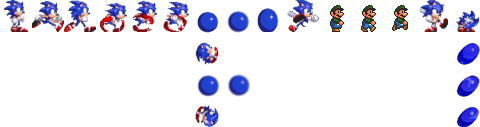
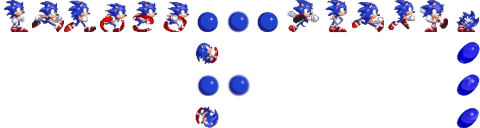
check desc.
fixed sonic implementation making other characters slow

Spindash kills enemies

Spindash Particle effects

Particles allow you to change YPic on spawning them

Added Sonic carrying item sprite, fixed up some sprite sheet stuff

diff --git a/code/character.js b/code/character.js
@@ -344,41 +344,52 @@ Mario.Character.prototype.Move = function () {
         }
         return;
     }
-
-    if (this.character_select == "sonic" && this.Ducking && this.OnGround) {
-        if (Enjine.KeyboardInput.IsKeyDown(Enjine.Keys.A) && this.CanShoot) {
-            this.Spindash = true;
-            this.SpindashCharge += 2;
-            this.SpindashStop = 7;
-            this.Xa = 0;
-        }
-        else if (this.character_select == "sonic") {
-            this.SpindashStop -= 1;
-            if (this.SpindashStop == 0) {
-                this.Xa = this.SpindashCharge * 0.5 * this.Facing;
+    if (this.character_select == "sonic") {
+        if (this.Ducking && this.OnGround) {
+            if (Enjine.KeyboardInput.IsKeyDown(Enjine.Keys.A) && this.CanShoot) {
+                this.Spindash = true;
+                if (this.SpindashCharge < 80) {
+                    this.SpindashCharge += 5;
+                }
+                this.SpindashStop = 7;
+                this.Xa = 0;
+                this.World.AddSprite(new Mario.Sparkle(this.World, (this.X + Math.random() * 8 - 14) | 0, (this.Y + Math.random() * 4) | 0, Math.random() * 2 - 1, Math.random() * -1, 0, 1, 5, 0));
+                this.World.AddSprite(new Mario.Sparkle(this.World, (this.X + Math.random() * 8 - 12) | 0, (this.Y + Math.random() * 4) | 0, Math.random() * 2 - 1, Math.random() * -1, 0, 1, 5, 0));
+            }
+            else {
+                this.SpindashStop -= 1;
+                if (this.SpindashStop == 0) {
+                    this.Xa = this.SpindashCharge * 0.5 * this.Facing;
+                }
+            }
+            if (this.SpindashCharge == 80) {
+                this.World.AddSprite(new Mario.Sparkle(this.World, ((this.X + Math.random() * 25 - 20) | 0) + this.Facing * 8, ((this.Y + Math.random() * 6) | 0) - 12, Math.random() * 2 - 1, Math.random(), 1, 1, 5, 1));
+            }
+            if (this.SpindashChargeLoop < 3) {
+                this.SpindashChargeLoop += 1;
+            }
+            else {
+                this.SpindashChargeLoop = 1;
             }
         }
-        if (this.SpindashChargeLoop < 3) {
-            this.SpindashChargeLoop += 1;
+        else if (!this.Ducking && this.XPic == 0) {
+            this.SpindashCharge = 0;
+            this.SpindashChargeLoop = 0;
         }
-        else {
-            this.SpindashChargeLoop = 1;
+        if (this.Spindash && this.Xa != 0) {
+            this.SpindashCharge *= this.GroundTraction;
+            if (this.SpindashChargeLoop < 3) {
+                this.SpindashChargeLoop += 1;
+            }
+            else {
+                this.SpindashChargeLoop = 1;
+            }
         }
-    }
-    if (this.character_select == "sonic" && this.Spindash && this.Xa != 0) {
-        this.Xa *= 1.05;
-        this.SpindashCharge *= this.GroundTraction;
-        if (this.SpindashChargeLoop < 3) {
-            this.SpindashChargeLoop += 1;
+        if (this.SpindashCharge < 2 || !this.OnGround && this.Xa == 0 || this.collisiontype == "left" || this.collisiontype == "right") {
+            this.Spindash = false;
+            this.SpindashChargeLoop = 0;
+            this.SpindashCharge = 0;
         }
-        else {
-            this.SpindashChargeLoop = 1;
-        }
-    }
-    if (this.SpindashCharge < 2 || !this.OnGround) {
-        this.Spindash = false;
-        this.SpindashChargeLoop = 0;
-        this.SpindashCharge = 0;
     }
 
     //fox stuff
@@ -453,7 +464,7 @@ Mario.Character.prototype.Move = function () {
             this.Xa = 0;
             this.Ya = 0;
             this.WasShielding = true;
-            this.World.AddSprite(new Mario.Sparkle(this.World, ((this.X + Math.random() * 25 - 20) | 0) + this.Facing * 8, ((this.Y + Math.random() * 6) | 0) - 8, Math.random() * 2 - 1, Math.random(), 0, 1, 5));
+            this.World.AddSprite(new Mario.Sparkle(this.World, ((this.X + Math.random() * 25 - 20) | 0) + this.Facing * 8, ((this.Y + Math.random() * 6) | 0) - 8, Math.random() * 2 - 1, Math.random(), 0, 1, 5, 1));
         }
     }
 
@@ -620,7 +631,12 @@ Mario.Character.prototype.Move = function () {
         }
     }
     if (this.Xa != 0 && !Enjine.KeyboardInput.IsKeyDown(Enjine.Keys.Right) && !Enjine.KeyboardInput.IsKeyDown(Enjine.Keys.Left) && this.OnGround && this.character_select == "fox") {
-        this.Xa *= this.GroundTraction;
+        if (this.Spindash && this.character_select == "sonic") {
+            this.Xa *= 0.9
+        }
+        else {
+            this.Xa *= this.GroundTraction;
+        }
     }
 
 
@@ -639,7 +655,7 @@ Mario.Character.prototype.Move = function () {
 
         this.launched -= 1
         if (launchfirsttime) {
-            this.World.AddSprite(new Mario.Sparkle(this.World, ((this.X + Math.random() * 25 - 20) | 0) + this.Facing * 8, ((this.Y + Math.random() * 6) | 0) - 8, Math.random() * 2 - 1, Math.random(), 0, 1, 5));
+            this.World.AddSprite(new Mario.Sparkle(this.World, ((this.X + Math.random() * 25 - 20) | 0) + this.Facing * 8, ((this.Y + Math.random() * 6) | 0) - 8, Math.random() * 2 - 1, Math.random(), 1, 1, 5, 1));
             this.Xa = 0
             this.Ya = 0
             launchfirsttime = false
@@ -766,7 +782,7 @@ Mario.Character.prototype.Move = function () {
         this.Ducking = true
         this.GroundPoundTimer -= 1;
         this.World.AddSprite(new Mario.Sparkle(this.World, ((this.X + Math.random() * 25 - 15) | 0) + this.Facing * 1,
-            ((this.Y + Math.random() * 6) | 0) - 8, Math.random() * 2 - 1, Math.random(), 0, 1, 5));
+            ((this.Y + Math.random() * 6) | 0) - 8, Math.random() * 2 - 1, Math.random(), 0, 1, 5, 0));
         if (Enjine.KeyboardInput.IsKeyDown(Enjine.Keys.S) && this.JumpTime != 0) {
             this.GroundPoundTimer = 0
             this.Ducking = false
@@ -881,7 +897,7 @@ Mario.Character.prototype.Move = function () {
         if (this.OnGround && this.DashDance && this.character_select == "fox") {
             this.Xa = -7
             if (this.RunTime <= 30) {
-                this.World.AddSprite(new Mario.Sparkle(this.World, (this.X + Math.random() * 8 - 4) | 0, (this.Y + Math.random() * 4) | 0, Math.random() * 2 - 1, Math.random() * -1, 0, 1, 5));
+                this.World.AddSprite(new Mario.Sparkle(this.World, (this.X + Math.random() * 8 - 4) | 0, (this.Y + Math.random() * 4) | 0, Math.random() * 2 - 1, Math.random() * -1, 0, 1, 5, 0));
             }
         }
         else {
@@ -897,7 +913,7 @@ Mario.Character.prototype.Move = function () {
             this.Facing = -1;
         }
     }
-    else if (!Enjine.KeyboardInput.IsKeyDown(Enjine.Keys.Right)) {
+    else if (!Enjine.KeyboardInput.IsKeyDown(Enjine.Keys.Right) && this.character_select == "sonic") {
         this.GroundInertia = 0.8;
     }
 
@@ -909,7 +925,7 @@ Mario.Character.prototype.Move = function () {
 
             this.Xa = 7
             if (this.RunTime <= 30) {
-                this.World.AddSprite(new Mario.Sparkle(this.World, (this.X + Math.random() * 8 - 4) | 0, (this.Y + Math.random() * 4) | 0, Math.random() * 2 - 1, Math.random() * -1, 0, 1, 5));
+                this.World.AddSprite(new Mario.Sparkle(this.World, (this.X + Math.random() * 8 - 4) | 0, (this.Y + Math.random() * 4) | 0, Math.random() * 2 - 1, Math.random() * -1, 0, 1, 5, 0));
             }
         }
         else {
@@ -924,7 +940,7 @@ Mario.Character.prototype.Move = function () {
             this.Facing = 1;
         }
     }
-    else if (!Enjine.KeyboardInput.IsKeyDown(Enjine.Keys.Left)) {
+    else if (!Enjine.KeyboardInput.IsKeyDown(Enjine.Keys.Left) && this.character_select == "sonic") {
         this.GroundInertia = 0.8;
     }
 
@@ -974,7 +990,7 @@ Mario.Character.prototype.Move = function () {
 
     if (this.Sliding) {
         this.World.AddSprite(new Mario.Sparkle(this.World, ((this.X + Math.random() * 4 - 2) | 0) + this.Facing * 8,
-            ((this.Y + Math.random() * 4) | 0) - 24, Math.random() * 2 - 1, Math.random(), 0, 1, 5));
+            ((this.Y + Math.random() * 4) | 0) - 24, Math.random() * 2 - 1, Math.random(), 0, 1, 5, 0));
         this.Ya *= 0.5;
     }
 
@@ -1117,7 +1133,7 @@ Mario.Character.prototype.CalcPic = function () {
 
         if (this.Xa > 3 || this.Xa < -3) {
             for (i = 0; i < 3; i++) {
-                this.World.AddSprite(new Mario.Sparkle(this.World, (this.X + Math.random() * 8 - 4) | 0, (this.Y + Math.random() * 4) | 0, Math.random() * 2 - 1, Math.random() * -1, 0, 1, 5));
+                this.World.AddSprite(new Mario.Sparkle(this.World, (this.X + Math.random() * 8 - 4) | 0, (this.Y + Math.random() * 4) | 0, Math.random() * 2 - 1, Math.random() * -1, 0, 1, 5, 0));
             }
         }
     }
@@ -1176,6 +1192,10 @@ Mario.Character.prototype.CalcPic = function () {
 
     if (this.specialfall && this.illusion == 0 && !this.OnGround && !this.airdodging && this.launched == 0) {
         runFrame = 4;
+    }
+
+    if (runFrame == 0 && this.character_select == "sonic") {
+        this.YPic = 0;
     }
 
     this.XPic = runFrame;
@@ -1509,7 +1529,7 @@ Mario.Character.prototype.IsBlocking = function (x, y, xa, ya) {
         this.World.Level.SetBlock(x, y, 0);
         for (xx = 0; xx < 2; xx++) {
             for (yy = 0; yy < 2; yy++) {
-                this.World.AddSprite(new Mario.Sparkle(this.World, x * 16 + xx * 8 + ((Math.random() * 8) | 0), y * 16 + yy * 8 + ((Math.random() * 8) | 0), 0, 0, 0, 2, 5));
+                this.World.AddSprite(new Mario.Sparkle(this.World, x * 16 + xx * 8 + ((Math.random() * 8) | 0), y * 16 + yy * 8 + ((Math.random() * 8) | 0), 0, 0, 0, 2, 5, 0));
             }
         }
     }

diff --git a/code/enemy.js b/code/enemy.js
@@ -81,6 +81,17 @@ Mario.Enemy.prototype.CollideCheck = function () {
             }
         }
     }
+    if (Mario.MarioCharacter.character_select == "sonic" && Mario.MarioCharacter.Spindash && Mario.MarioCharacter.XPic != 14) {
+        if (xMarioD > -this.Width * 2 - 4 && xMarioD < this.Width * 2 + 4) {
+            if (yMarioD > -this.Height && yMarioD < Mario.MarioCharacter.Height) {
+                this.DeadTime = 10;
+                this.SpriteTemplate.IsDead = true;
+                this.World.RemoveSprite(this);
+                this.World.AddSprite(new Mario.Sparkle(this.World, ((this.X + Math.random() * 16 - 8) | 0) + 4, ((this.Y - Math.random() * 8) | 0) + 4, Math.random() * 2 - 1, Math.random() * -1, 0, 1, 5));
+                return;
+            }
+        }
+    }
 
     if (xMarioD > -this.Width * 2 - 4 && xMarioD < this.Width * 2 + 4) {
         if (yMarioD > -this.Height && yMarioD < Mario.MarioCharacter.Height) {
@@ -169,7 +180,12 @@ Mario.Enemy.prototype.CollideCheck = function () {
                             Mario.MarioCharacter.Shieldstun = 20;
                         }
                     }
-                    else if (!Mario.MarioCharacter.airdodging) {
+                    else if (Mario.MarioCharacter.character_select == "sonic") {
+                        if (!(Mario.MarioCharacter.Spindash && Mario.MarioCharacter.XPic == 14)) {
+                            Mario.MarioCharacter.GetHurt();
+                        }
+                    }
+                    else if (Mario.MarioCharacter.character_select != "fox") {
                         Mario.MarioCharacter.GetHurt();
                     }
                 }

diff --git a/code/mapState.js b/code/mapState.js
@@ -114,7 +114,7 @@ Mario.MapState.prototype.Enter = function () {
     }
     else if (this.character_select == "Sonic") {
         Mario.MarioCharacter.character_select = "sonic"
-        this.character_select = "sonic"
+        this.character_select = "Sonic"
         this.SmallMario.Image = Enjine.Resources.Images["PeachworldMap"]
         this.LargeMario.Image = Enjine.Resources.Images["PeachworldMap"]
     }
@@ -540,7 +540,7 @@ Mario.MapState.prototype.Update = function (delta) {
                 this.IsKeyDownLast = 1
             } else if (this.character_select == "Peach" && this.IsKeyDownLast == 0) {
                 Mario.MarioCharacter.character_select = "sonic"
-                this.character_select = "sonic"
+                this.character_select = "Sonic"
                 this.SmallMario.Image = Enjine.Resources.Images["PeachworldMap"]
                 this.LargeMario.Image = Enjine.Resources.Images["PeachworldMap"]
                 this.IsKeyDownLast = 1

diff --git a/code/sparkle.js b/code/sparkle.js
@@ -3,14 +3,14 @@
     Code by Rob Kleffner, 2011
 */
 
-Mario.Sparkle = function (world, x, y, xa, ya) {
+Mario.Sparkle = function (world, x, y, xa, ya, ypic) {
     this.World = world;
     this.X = x;
     this.Y = y;
     this.Xa = xa;
     this.Ya = ya;
     this.XPic = (Math.random() * 2) | 0;
-    this.YPic = 0;
+    this.YPic = ypic;
 
     this.Life = 10 + ((Math.random() * 5) | 0);
     this.XPicStart = this.XPic;
@@ -29,13 +29,6 @@ Mario.Sparkle.prototype.Move = function () {
         this.XPic = 7;
     } else {
         this.XPic = (this.XPicStart + (10 - this.Life) * 0.4) | 0;
-    }
-
-    if (Mario.MarioCharacter.waslaunched) [
-        this.YPic = 1
-    ]
-    else {
-        this.YPic = 0
     }
 
     if (this.Life-- < 0) {
